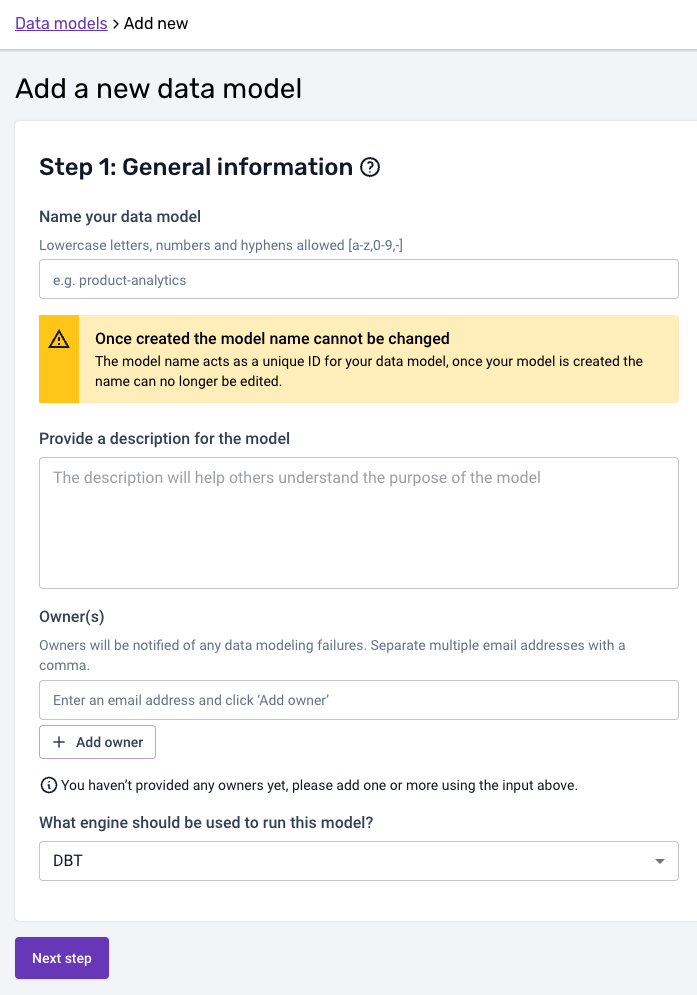
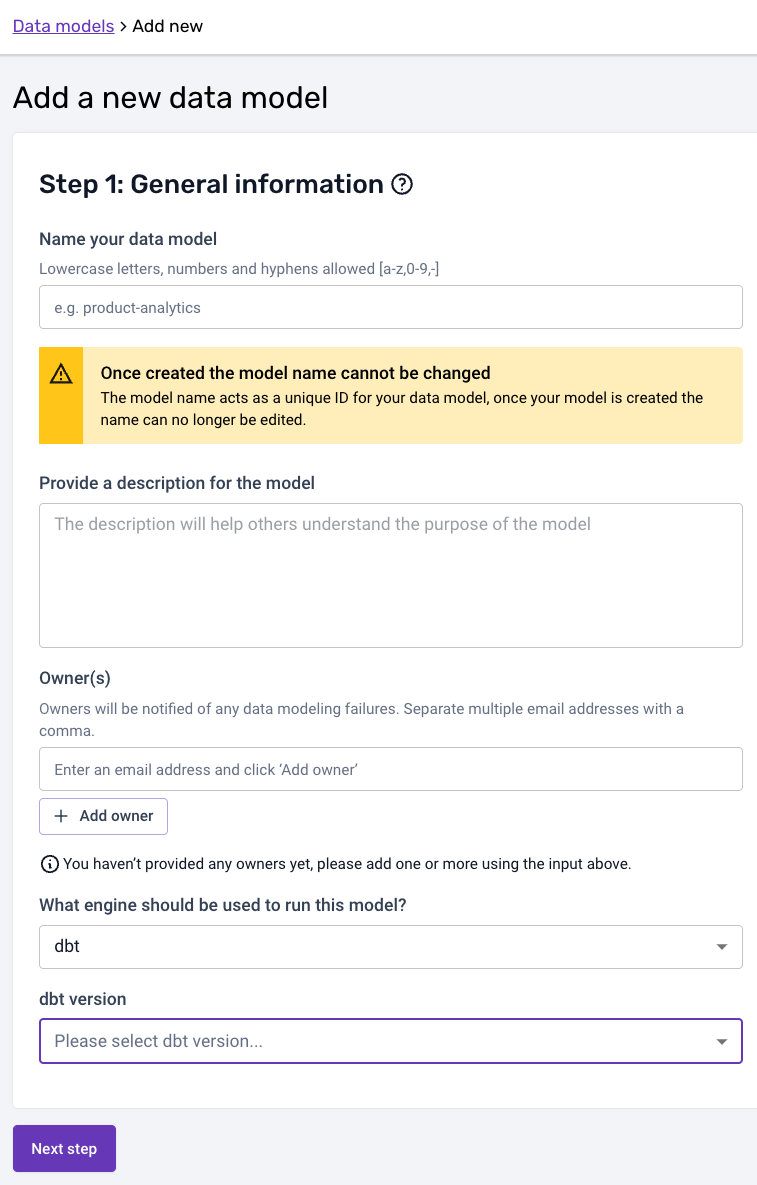
dbt docs updates for newly released UI/UX improvements

Changed region(s): [[0.0, 0.0, 1.0, 0.4985], [0.0301, 0.5608, 0.9943, 0.9035], [0.0, 0.9347, 0.1808, 0.997]]

diff --git a/docs/modeling-your-data/running-data-models-via-snowplow-bdp/dbt/using-dbt/index.md b/docs/modeling-your-data/running-data-models-via-snowplow-bdp/dbt/using-dbt/index.md
@@ -142,7 +142,7 @@ Data models can be configured via the Snowplow BDP Console:
 
 ![](images/Screenshot-2021-11-15-at-20.15.28.png)
 
-In the first step, you can provide the data model name, a description, and the owner(s) of the data model that will be alerted in case of failure and finally select the engine that should run your datamodel (DBT in this case):
+In the first step, you can provide the data model name, a description, and the owner(s) of the data model that will be alerted in case of failure and finally select the engine and version that should run your datamodel (DBT in this case):
 
 ![](images/data-model-create-step-1.png)
 
@@ -163,7 +163,7 @@ You should write your dbt models in such a way that if they fail part way throug
 
 :::
 
-In the third and last step you can configure the models and variables your `dbt run` call is excecuted with. The `modelArgs` follows a [`--select` flag](https://docs.getdbt.com/reference/node-selection/syntax#shorthand), and `varArgs` follow the [`--vars` flag](https://docs.getdbt.com/docs/build/project-variables#defining-variables-on-the-command-line) in the call:
+In the third and last step you can configure the arguments and variables your `dbt run` call is excecuted with. The arguments (`--selector` or `--select` / `--exclude`) follow the syntax described on [dbt docs](https://docs.getdbt.com/reference/node-selection/syntax), and so do variables ([`--vars` flag](https://docs.getdbt.com/docs/build/project-variables#defining-variables-on-the-command-line)):
 
 ![](images/data-model-create-step-3.png)
 
